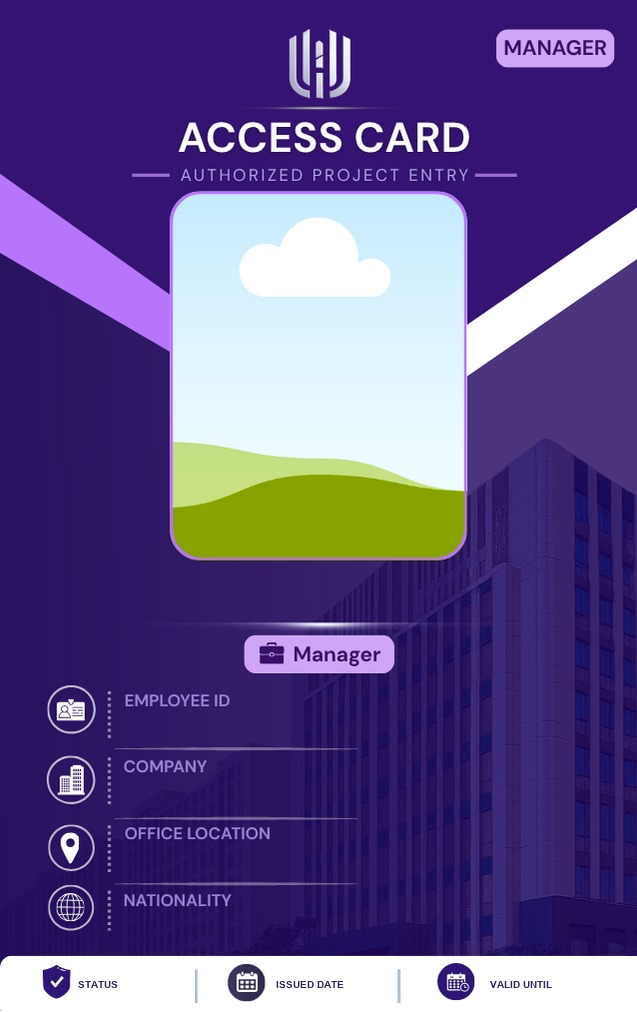
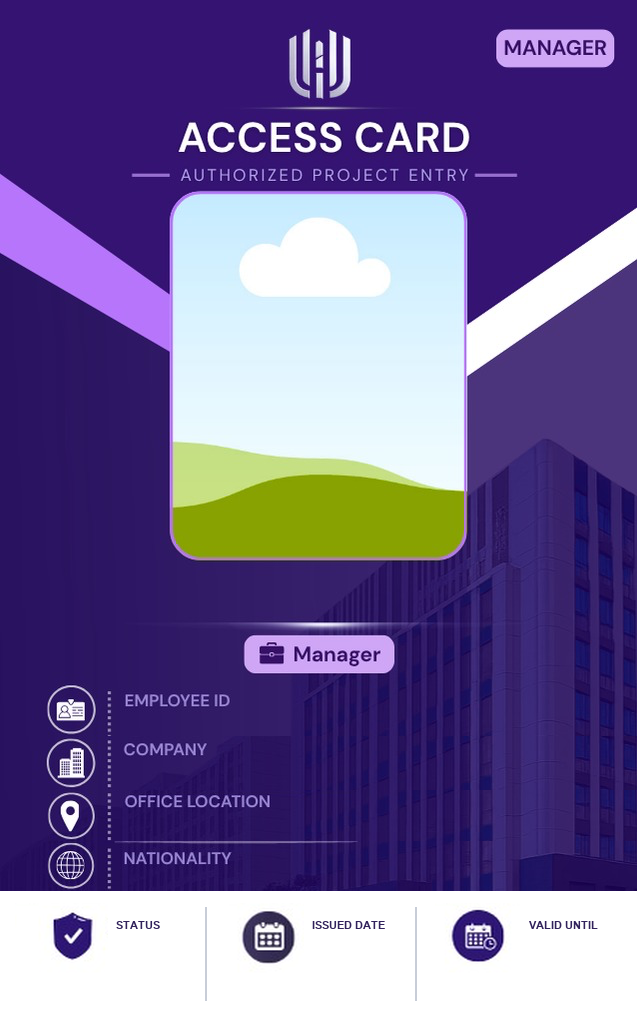
Redesign ID card footer as two-line label/value layout
The user wanted the printed-card look restored: STATUS/ISSUED DATE/
VALID UNTIL as a small baked label with a bold value line underneath,
instead of the cramped single-line-plus-inline-value layout from the
last pass.

- Compact the vertical gaps between the four field rows (Employee ID/
  Company/Office Location/Nationality) in all three role templates,
  trimming each baked inter-row gap down to a small margin. This frees
  ~120px at the bottom of the fixed 637x1012 template canvas without
  touching the card's real-world ID-1 aspect ratio (needed as-is for
  the physical card printer)
- Redraw the footer bar taller into that freed space, with enlarged
  icons (reused from the original artwork, not redrawn) and the STATUS/
  ISSUED DATE/VALID UNTIL labels repositioned to the top of the bar
- Move idc2-fv-1..4 (Employee ID/Company/Office Location/Nationality
  values) up to match the compacted rows
- Rework idc2-ftv into a real second line under each footer label
  instead of the inline-after-label hack, at a much more legible
  font-size now that there's real room
- Revert the footer dates from the compact DD/MM/YY back to the full
  '25 JUN 2026' form now that the value line has space for it
- Bring cardPrint.js's .photo-zone/.fv/.ftv back in sync with
  idcard.css, which had drifted out of sync across the last few
  on-screen-only edits

Changed region(s): [[0.0, 0.7045, 1.0, 1.0]]

diff --git a/frontend/src/pages/main/idcard.css b/frontend/src/pages/main/idcard.css
@@ -382,7 +382,10 @@
 
 /* Field values — Employee ID / Company / Office Location / Nationality,
    each centered in the gap below its baked label and above the next
-   divider line (rows run label@~69%/~76%/~82%/~89%, dividers @~74%/~81%/~87%). */
+   divider line. Rows were pulled closer together on 2026-08-31 (their
+   baked inter-row gaps trimmed) to make room for the taller two-line
+   footer below, so these moved up from the original 71.6/78.3/85.0/91.4%
+   — only the first row didn't shift, since the freed gaps all sit below it. */
 .idc2-fv {
   position: absolute;
   left: 20.5%;
@@ -397,16 +400,16 @@
   text-overflow: ellipsis;
 }
 .idc2-fv-1 { top: 71.6%; } /* Employee ID */
-.idc2-fv-2 { top: 78.3%; } /* Company */
-.idc2-fv-3 { top: 85.0%; } /* Office Location */
-.idc2-fv-4 { top: 91.4%; } /* Nationality */
+.idc2-fv-2 { top: 76.6%; } /* Company */
+.idc2-fv-3 { top: 81.7%; } /* Office Location */
+.idc2-fv-4 { top: 87.2%; } /* Nationality */
 
-/* ── Footer strip — STATUS / ISSUED DATE / VALID UNTIL labels + icons are
-   baked into the template art on a single line that fills the whole bar
-   height, so there is no gap below them to tuck a second line into. Values
-   sit inline, right after each label, in the leftover gap before the next
-   divider (re-measured 2026-08-31 against the refreshed artwork; the gap
-   after "ISSUED DATE" is the tightest at ~6.6% width). ── */
+/* ── Footer strip — redesigned 2026-08-31 into a real two-line layout
+   (icon + small baked label on top, a bold value line underneath), matching
+   the printed-card reference the user wanted. This needed the taller bar
+   baked into the template art (frame now starts ~88.2% instead of ~93.7%,
+   freed by compacting the four field rows above) — the previous "one baked
+   line, values crammed in after/under it" layout is gone. ── */
 .idc2-tpl-footer {
   position: absolute;
   inset: 0;
@@ -415,11 +418,10 @@
 }
 .idc2-ftv {
   position: absolute;
-  top: 97%;
+  top: 96%;
   transform: translateY(-50%);
-  font-size: 3.6px;
-  letter-spacing: -0.1px;
-  font-weight: 700;
+  font-size: 6.5px;
+  font-weight: 800;
   line-height: 1;
   color: #0c1a30;
   text-align: left;
@@ -427,9 +429,9 @@
   overflow: hidden;
   text-overflow: ellipsis;
 }
-.idc2-ftv-1 { left: 20.5%; width: 7.5%;  } /* Status */
-.idc2-ftv-2 { left: 55.3%; width: 6.9%;  } /* Issued Date */
-.idc2-ftv-3 { left: 87.9%; width: 11.6%; } /* Valid Until */
+.idc2-ftv-1 { left: 18.5%; width: 10%;   } /* Status */
+.idc2-ftv-2 { left: 49%;   width: 12.5%; } /* Issued Date */
+.idc2-ftv-3 { left: 83%;   width: 15.5%; } /* Valid Until */
 
 /* ── Action buttons ── */
 .idc-actions {

diff --git a/frontend/src/utils/cardPrint.js b/frontend/src/utils/cardPrint.js
@@ -5,9 +5,9 @@ const fmtUp = (d) => fmt(d).toUpperCase();
 
 /* ── Template definitions — maps role → card image + overlay colours ── */
 const TEMPLATES = {
-  Staff:      { key:"Staff",      img:"/id-card/IT_STAFF1.png?v=11",    panelBg:"#0c1a30", footBg:"#07101e", photoBorder:"#80bbf5" },
-  Supervisor: { key:"Supervisor", img:"/id-card/supervisor1.png?v=11",  panelBg:"#091e19", footBg:"#05120d", photoBorder:"#55c8be" },
-  Manager:    { key:"Manager",    img:"/id-card/manager1.png?v=11",     panelBg:"#110826", footBg:"#090518", photoBorder:"#b775fb" },
+  Staff:      { key:"Staff",      img:"/id-card/IT_STAFF1.png?v=12",    panelBg:"#0c1a30", footBg:"#07101e", photoBorder:"#80bbf5" },
+  Supervisor: { key:"Supervisor", img:"/id-card/supervisor1.png?v=12",  panelBg:"#091e19", footBg:"#05120d", photoBorder:"#55c8be" },
+  Manager:    { key:"Manager",    img:"/id-card/manager1.png?v=12",     panelBg:"#110826", footBg:"#090518", photoBorder:"#b775fb" },
 };
 
 const TEMPLATE_RULES = [
@@ -172,11 +172,11 @@ body { font-family:'Times New Roman','Saysettha OT',serif; }
    so the printed card lines up with the on-screen preview. */
 .photo-zone {
   position: absolute;
-  top: 19.86%;
+  top: 18.8%;
   left: 50%;
   transform: translateX(-50%);
   width: 46.6%;
-  height: 36.07%;
+  height: 36.6%;
   border-radius: 2mm;
   overflow: hidden;
 }
@@ -207,20 +207,20 @@ body { font-family:'Times New Roman','Saysettha OT',serif; }
   white-space: nowrap; overflow: hidden; text-overflow: ellipsis;
 }
 .fv-1 { top: 71.6%; } /* Employee ID */
-.fv-2 { top: 78.3%; } /* Company */
-.fv-3 { top: 85.0%; } /* Office Location */
-.fv-4 { top: 91.4%; } /* Nationality */
+.fv-2 { top: 76.6%; } /* Company */
+.fv-3 { top: 81.7%; } /* Office Location */
+.fv-4 { top: 87.2%; } /* Nationality */
 
 .ftv {
   position: absolute;
-  top: 97%;
+  top: 96%;
   transform: translateY(-50%);
-  font-size: 5px; font-weight: 700; line-height: 1; color: #0c1a30;
+  font-size: 6.5px; font-weight: 800; line-height: 1; color: #0c1a30;
   text-align: left; white-space: nowrap; overflow: hidden; text-overflow: ellipsis;
 }
-.ftv-1 { left: 13.5%;  width: 16%; } /* Status */
-.ftv-2 { left: 43.6%;  width: 17%; } /* Issued Date */
-.ftv-3 { left: 79.3%;  width: 19%; } /* Valid Until */
+.ftv-1 { left: 18.5%; width: 10%;   } /* Status */
+.ftv-2 { left: 49%;   width: 12.5%; } /* Issued Date */
+.ftv-3 { left: 83%;   width: 15.5%; } /* Valid Until */
 </style>
 </head>
 <body>

diff --git a/frontend/src/pages/main/IdCard.jsx b/frontend/src/pages/main/IdCard.jsx
@@ -12,10 +12,6 @@ import "./idcard.css";
 
 const fmt   = (d) => d ? new Date(d).toLocaleDateString("en-GB", { day:"2-digit", month:"short", year:"numeric" }) : "–";
 const fmtUp = (d) => fmt(d).toUpperCase();
-/* Compact DD/MM/YY — the footer's Issued/Valid columns sit inline right
-   after a baked-in label with very little leftover width (see idcard.css
-   .idc2-ftv-2/-3), so the long "25 JUN 2026" form doesn't fit there. */
-const fmtShort = (d) => d ? new Date(d).toLocaleDateString("en-GB", { day:"2-digit", month:"2-digit", year:"2-digit" }) : "–";
 
 /* Icons for topbar buttons + KPI tiles */
 const IcoSelect  = () => <svg viewBox="0 0 24 24" width="15" height="15" fill="none" stroke="currentColor" strokeWidth="2"><rect x="3" y="3" width="7" height="7" rx="1.5"/><rect x="14" y="3" width="7" height="7" rx="1.5"/><rect x="3" y="14" width="7" height="7" rx="1.5"/><path d="M17.5 14.5v7M14 18h7"/></svg>;
@@ -150,8 +146,8 @@ export function IDCard({ emp, onPhotoUpdate }) {
           are baked into the template art; only the live values go here. */}
       <div className="idc2-tpl-footer">
         <span className="idc2-ftv idc2-ftv-1">{hasCard ? (emp.card_status || "ACTIVE").toUpperCase() : "NO CARD"}</span>
-        <span className="idc2-ftv idc2-ftv-2">{hasCard ? fmtShort(emp.issued_at) : "–"}</span>
-        <span className="idc2-ftv idc2-ftv-3">{hasCard ? fmtShort(emp.valid_until) : "–"}</span>
+        <span className="idc2-ftv idc2-ftv-2">{hasCard ? fmtUp(emp.issued_at) : "–"}</span>
+        <span className="idc2-ftv idc2-ftv-3">{hasCard ? fmtUp(emp.valid_until) : "–"}</span>
       </div>
     </div>
   );
